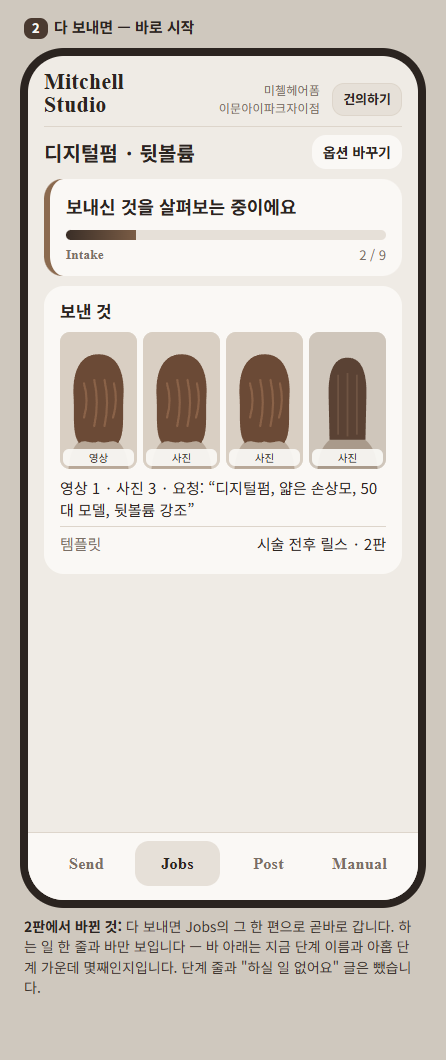
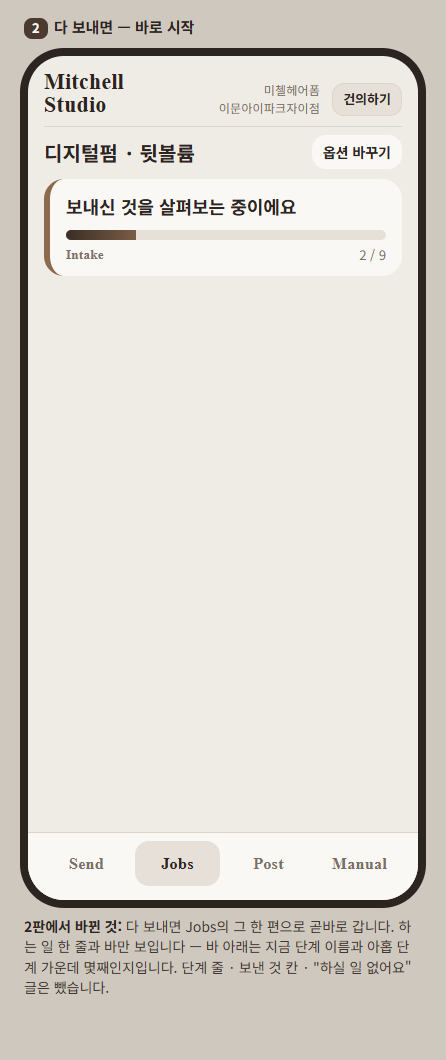
S8_UIUX_REWORK: 덧붙임 2 — 화면 2 · 3 바만(결과 칸 뺌) · 화면 10 밖 설명에 Post 탭 한 줄 · s02 · s03 · s10 다시 찍음 · README · 반환(여쭌 것 답 받음)

diff --git a/projects/btsr/roles/rsch/sub/s8_uiux_rework/UIUX_웹앱1차시안_3판_CLAUDE.html b/projects/btsr/roles/rsch/sub/s8_uiux_rework/UIUX_웹앱1차시안_3판_CLAUDE.html
@@ -187,20 +187,9 @@ h2 { font-size:20px; margin:0 0 8px; }
       <div class="barw"><div class="barf" style="width:22%"></div></div>
       <div class="pg"><span class="eh">Intake</span><span>2 / 9</span></div>
     </div>
-    <div class="card">
-      <div style="font-weight:600">보낸 것</div>
-      <div class="thumbs">
-        <div class="th"><svg viewBox="0 0 90 160" preserveAspectRatio="xMidYMid slice"><use href="#p-after"/></svg><i>영상</i></div>
-        <div class="th"><svg viewBox="0 0 90 160" preserveAspectRatio="xMidYMid slice"><use href="#p-after"/></svg><i>사진</i></div>
-        <div class="th"><svg viewBox="0 0 90 160" preserveAspectRatio="xMidYMid slice"><use href="#p-after"/></svg><i>사진</i></div>
-        <div class="th"><svg viewBox="0 0 90 160" preserveAspectRatio="xMidYMid slice"><use href="#p-before"/></svg><i>사진</i></div>
-      </div>
-      <div style="font-size:15px">영상 1 · 사진 3 · 요청: “디지털펌, 얇은 손상모, 50대 모델, 뒷볼륨 강조”</div>
-      <div class="kv" style="margin-top:6px"><span>템플릿</span><span>시술 전후 릴스 · 2판</span></div>
-    </div>
   </div>
   <div class="tabs"><span>Send</span><span class="on">Jobs</span><span>Post</span><span>Manual</span></div></div>
-  <div class="ft"><b>2판에서 바뀐 것:</b> 다 보내면 Jobs의 그 한 편으로 곧바로 갑니다. 하는 일 한 줄과 바만 보입니다 — 바 아래는 지금 단계 이름과 아홉 단계 가운데 몇째인지입니다. 단계 줄과 "하실 일 없어요" 글은 뺐습니다.</div>
+  <div class="ft"><b>2판에서 바뀐 것:</b> 다 보내면 Jobs의 그 한 편으로 곧바로 갑니다. 하는 일 한 줄과 바만 보입니다 — 바 아래는 지금 단계 이름과 아홉 단계 가운데 몇째인지입니다. 단계 줄 · 보낸 것 칸 · "하실 일 없어요" 글은 뺐습니다.</div>
 </div>
 
 <!-- ───────── 3 Intake — 묻지 않음 ───────── -->
@@ -214,23 +203,9 @@ h2 { font-size:20px; margin:0 0 8px; }
       <div class="barw"><div class="barf" style="width:33%"></div></div>
       <div class="pg"><span class="eh">Script</span><span>3 / 9</span></div>
     </div>
-    <div class="card">
-      <div style="display:flex;justify-content:space-between;align-items:center"><span style="font-weight:700">Intake</span><span class="pill done">완료</span></div>
-      <div class="thumbs">
-        <div class="th"><svg viewBox="0 0 90 160" preserveAspectRatio="xMidYMid slice"><use href="#p-after"/></svg><i>시술 후</i></div>
-        <div class="th"><svg viewBox="0 0 90 160" preserveAspectRatio="xMidYMid slice"><use href="#p-after"/></svg><i>시술 후</i></div>
-        <div class="th"><svg viewBox="0 0 90 160" preserveAspectRatio="xMidYMid slice"><use href="#p-before"/></svg><i>시술 전</i></div>
-        <div class="th make"><i>AI 얼굴<br>만들 예정</i></div>
-      </div>
-      <div class="kv first"><span>시술</span><span>디지털펌</span></div>
-      <div class="kv"><span>보여줄 변화</span><span>뒷볼륨</span></div>
-      <div class="kv"><span>모델 연령</span><span>50대</span></div>
-      <div class="kv"><span>시술 전 · 시술 후</span><span class="ok">있어요 ✓</span></div>
-      <div class="kv"><span>AI 얼굴</span><span><b>만들 예정</b></span></div>
-    </div>
   </div>
   <div class="tabs"><span>Send</span><span class="on">Jobs</span><span>Post</span><span>Manual</span></div></div>
-  <div class="ft"><b>2판에서 바뀐 것:</b> 설명 글과 단계 줄을 뺐습니다. AI 얼굴 사진을 안 올려도 묻지 않고, 나눈 결과에 「AI 얼굴 · 만들 예정」 한 줄만 보인 채 원고로 넘어갑니다.</div>
+  <div class="ft"><b>2판에서 바뀐 것:</b> 설명 글 · 단계 줄 · 나눈 결과 칸을 뺐습니다. AI 얼굴 사진을 안 올려도 미첼에게 묻지 않고 그대로 원고로 넘어갑니다(AI 얼굴은 웹앱이 만들어 나중에 확인받습니다).</div>
 </div>
 
 <!-- ───────── 4 Intake — 빠진 자료 ───────── -->
@@ -389,7 +364,7 @@ h2 { font-size:20px; margin:0 0 8px; }
     </div>
   </div>
   <div class="tabs"><span>Send</span><span class="on">Jobs<span class="badge">1</span></span><span>Post</span><span>Manual</span></div></div>
-  <div class="ft"><b>2판에서 바뀐 것:</b> 규격 숫자와 공유 창 그림을 뺐습니다. 미첼이 영상을 보고 고릅니다. 「사진 앱에 저장」을 누르면 아이폰 공유 창이 열리고 「비디오 저장」으로 사진 앱에 들어갑니다. 고친 판이 있으면 v1 · v2를 번갈아 봅니다.</div>
+  <div class="ft"><b>2판에서 바뀐 것:</b> 규격 숫자와 공유 창 그림을 뺐습니다. 미첼이 영상을 보고 고릅니다. 「사진 앱에 저장」을 누르면 아이폰 공유 창이 열리고 「비디오 저장」으로 사진 앱에 들어갑니다. 고친 판이 있으면 v1 · v2를 번갈아 봅니다. 「승인」을 누르면 Post 탭으로 가고, 끝난 영상은 거기서 다시 봅니다.</div>
 </div>
 
 <!-- ───────── 10 고칠 점 적기 ───────── -->

diff --git a/projects/btsr/roles/rsch/sub/s8_uiux_rework/반환.md b/projects/btsr/roles/rsch/sub/s8_uiux_rework/반환.md
@@ -1,9 +1,9 @@
 # 반환 — MITCHELL_STUDIO/BTSR/RSCH/S8_UIUX_REWORK
 
-- 쓴 때: 2026-11-21 15:04 KST · 연 이: PRIMARY Paseo a97bebab · 패킷: `OPEN_PACKET.md`(8bd51fa · 덧붙임 d069374)
+- 쓴 때: 2026-11-21 15:04 KST · 덧붙임 2를 넣어 고친 때: 2026-11-21 15:18 KST · 연 이: PRIMARY Paseo a97bebab · 패킷: `OPEN_PACKET.md`(8bd51fa · 덧붙임 d069374 · 덧붙임 2 ed67f92)
 - 낸 것: `UIUX_웹앱1차시안_3판_CLAUDE.html`(화면 14개 · `#s1`…`#s14`) · `s01.png`–`s14.png` · `README.md` · 이 글
 - 바탕: 시안 2판(`sub/s6_uiux_draft/v2/` — 고치지 않음) · 지금 웹앱 `app/webapp/static/app.html`(제품 저장소 로컬 `origin/main` 3072e7e를 `git show`로만 봄)
-- 커밋: 첫 판 29cd237(화면 13개) → 덧붙임을 넣은 판(화면 14개)이 그 다음 커밋
+- 커밋: 첫 판 29cd237(화면 13개) → 덧붙임을 넣은 판 fc31856(화면 14개) → 덧붙임 2를 넣은 판(화면 2 · 3 · 10만 고침 · 번호 그대로)이 그 다음 커밋
 
 ## 고친 것 다섯 (말씀 → 한 일)
 
@@ -14,6 +14,7 @@
 | 3 | "보내기가 아니고 Send로 해주세요." | 큰 단추 `Send`. 카드 머리 '다 됨'은 뺌(화면 10 · 11은 바 아래 `Done`). 한글 견줘 보기 뺌. |
 | 4 | "작업 목록 없습니다. 하나씩만하세요. 진행중엔 그냥 프로그레스 바" | 작업 목록 화면 뺌. Jobs = 지금 만드는 한 편. 만드는 중 = 제목 · 하는 일 한 줄 · 바 · 바 아래 단계 이름과 몇째(예: `Voice · Music · Fit · Export` 7 / 9). 진행 기록 · 단계 줄은 모든 화면에서 뺌. 확인이 필요하면 같은 화면에 물음 한 줄 + 단추. |
 | 5 | "도대체 알림 설명화면은 왜 있는건가요?" · 14:59:10 "알림 설정은 따로 메뉴얼로 빼시고요." | 알림 화면 뺌. 화면 밖 설명과 README에 "알림 켜는 법은 Manual 탭" 한 줄. |
+| 덧붙임 2 | 15:08:02 "1 권고안 승인하고…" · 15:12:00 "네 일단 1차는 그냥 갑시다." (PRIMARY 패킷 덧붙임 2) | 화면 2 · 3에서 바 아래 칸('보낸 것' · 'Intake' 나눈 결과 · 템플릿 줄)을 뺌 — 화면 6과 같은 꼴. 'AI 얼굴 사진이 없어도 묻지 않음'은 화면 3의 화면 밖 설명으로. 화면 10의 화면 밖 설명에 "「승인」을 누르면 Post 탭으로 가고, 끝난 영상은 거기서 다시 봅니다" 한 줄. `s02` · `s03` · `s10` 다시 찍음. |
 | 덧붙임 | 15:00:25 "막아야죠" (PRIMARY 패킷 덧붙임) | 화면 7 '만드는 중의 Send'를 새로 넣음 — 현황 한 줄 "지금 한 편을 만드는 중이에요" + 흐려져 눌리지 않는 Send 단추. 설명 글 없음. |
 
 ## 뺀 화면 · 번호
@@ -29,18 +30,15 @@
 | 11 고칠 점 적기 | 제목 옆 | "보내면 새 영상(v2)으로 만들어요. 지금 영상(v1)은 그대로 남아요." |
 | 13 규격이 다름 | '규격을 맞추는 중이에요' 옆 | "규격을 맞춘 영상이 나와야 승인할 수 있어요." |
 
-## 중간점검 때 여쭐 것 (번호로 답 · 1번이 권고)
+## 중간점검 때 여쭌 것 — 모두 답 받음 (PRIMARY 패킷 덧붙임 · 덧붙임 2에 적힌 대로)
 
-(만드는 동안 새로 보내는 것은 15:00:25 "막아야죠"로 정해져 뺌.)
+| 물음 | 답 | 말씀 원문 |
+|---|---|---|
+| 한 편을 만드는 동안 새로 보내면 | **막음** → 화면 7 | 15:00:25 "막아야죠" |
+| 가. 끝난 영상은 어디서 다시 보나 | **Post 탭**(지금 웹앱 그대로 · 보관함 없음 · 새 화면 안 그림) → 화면 10 밖 설명 한 줄 | 15:12:00 "네 일단 1차는 그냥 갑시다." |
+| 나. 만드는 중 화면에 바 말고 결과 칸도 두나 | **바만**(하는 일 한 줄과 바) → 화면 2 · 3에서 칸을 뺌 | 15:08:02 "1 권고안 승인하고 끝난 영상을 어디서 다시 보는지는 무슨 말일까요." |
 
-**가. 끝난 영상은 어디서 다시 보나요?**
-1. Post 탭 (권고 — 지금 웹앱도 다 된 영상이 Post에 모임)
-2. Jobs 아래에 '지난 것' 한 줄
-3. 다시 보는 곳 없음 — 사진 앱에 저장한 것만
-
-**나. 만드는 중 화면에 바 말고 그 단계의 결과 칸도 두나요?** (화면 2의 '보낸 것' · 화면 3의 'Intake' 나눈 결과)
-1. 지금 그림대로 둠 (권고 — 2판에서 이 칸에는 말씀이 없으셨음)
-2. 바만 (화면 6처럼)
+'나'는 내가 낸 권고(그림대로 둠)와 달리 PRIMARY가 '바만'을 권고로 여쭈어 받은 답이다. 남은 물음 없음.
 
 ## 패킷에 없이 내가 읽어서 한 것 (PRIMARY가 볼 것)
 
@@ -57,7 +55,7 @@
 ## 확인하지 않은 것
 
 - 그림은 윈도우의 화면 없는 Chrome(446×1060)으로 찍음. 아이폰 사파리에서 보지 않음 — 글꼴이 다르게 보일 수 있음.
-- 첫 판 13개 그림은 모두 눈으로 봄(넘침 · 겹침 없음). 덧붙임 뒤 다시 찍은 14개 가운데는 새 화면 7과 끝 화면 14만 다시 봄 — 나머지는 번호만 바뀜. HTML을 넓은 창에서 한꺼번에 펼친 꼴은 찍어 보지 않음.
+- 첫 판 13개 그림은 모두 눈으로 봄(넘침 · 겹침 없음). 덧붙임 뒤 다시 찍은 14개 가운데는 새 화면 7과 끝 화면 14만 다시 봄 — 나머지는 번호만 바뀜. 덧붙임 2로 다시 찍은 셋(`s02` · `s03` · `s10`)은 모두 봄. HTML을 넓은 창에서 한꺼번에 펼친 꼴은 찍어 보지 않음.
 - 'n / 9'는 지금 웹앱의 단계 아홉(Send · Intake · Script · Face · Edit · Preview · Voice… · Done · Post)을 센 것. 바가 실제로 어떻게 차는지(단계마다 한 칸인지 · 단계 안에서도 움직이는지)는 정해진 바 없음.
 - 화면 12 · 13의 바에는 단계 이름 · 몇째를 적지 않음 — 고쳐 만들 때 · 규격을 맞출 때 바가 어디서부터 차는지 정해진 바 없음.
 - 미첼의 확인을 기다리는 동안(화면 4 · 5 · 8 · 10)과 개발자에게 넘어간 동안(화면 9)에도 Send가 막히는지는 정해진 바 없음 — 화면 7은 '만드는 중'만 그림.

diff --git a/projects/btsr/roles/rsch/sub/s8_uiux_rework/README.md b/projects/btsr/roles/rsch/sub/s8_uiux_rework/README.md
@@ -5,7 +5,7 @@
 1. 쓰는 사람은 **미첼**입니다 — 설명 글의 '운영자'를 모두 미첼로 바꿨습니다.
 2. 화면 속 설명을 걷었습니다 — 화면에는 현황과 단추만 있습니다. 꼭 필요한 풀이 셋만 **? 표**로 남겼습니다(화면 5 · 11 · 13).
 3. 이름은 영어 그대로입니다 — 큰 단추도 `Send`. 한글로 바꾼 꼴 견줘 보기는 뺐습니다.
-4. 작업 목록을 없앴습니다 — Jobs에는 지금 만드는 한 편만, 만드는 중에는 하는 일 한 줄과 **프로그레스 바**만 보입니다. 만드는 동안에는 새로 보내지 못합니다(화면 7).
+4. 작업 목록을 없앴습니다 — Jobs에는 지금 만드는 한 편만, 만드는 중에는 하는 일 한 줄과 **프로그레스 바**만 보입니다(결과 칸도 없음). 만드는 동안에는 새로 보내지 못합니다(화면 7).
 5. 알림 설명 화면을 뺐습니다 — 알림 켜는 법은 Manual 탭의 일입니다.
 
 화면은 15개에서 14개가 됐습니다. 그림 속 작업 · 글 · 사람은 모두 지어낸 예시입니다.
